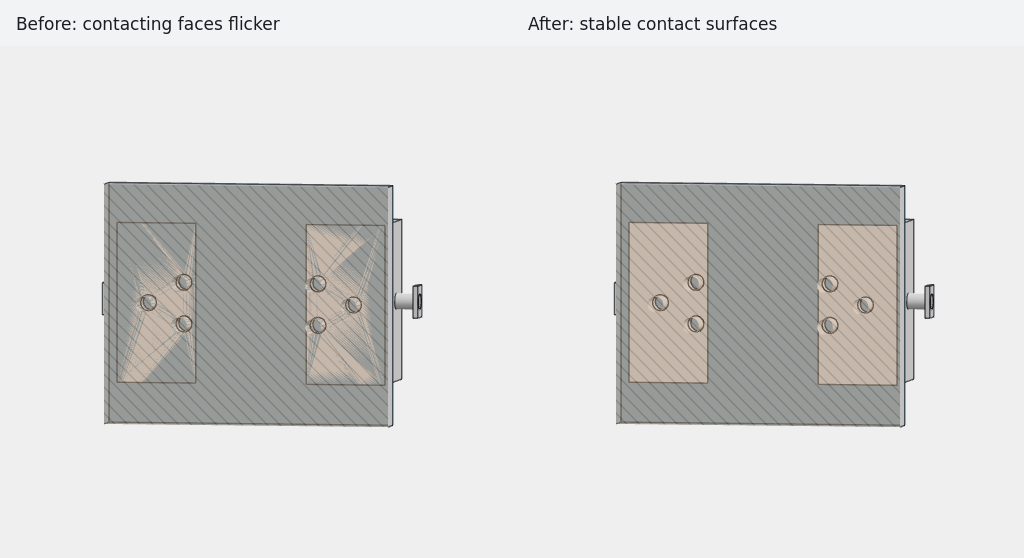
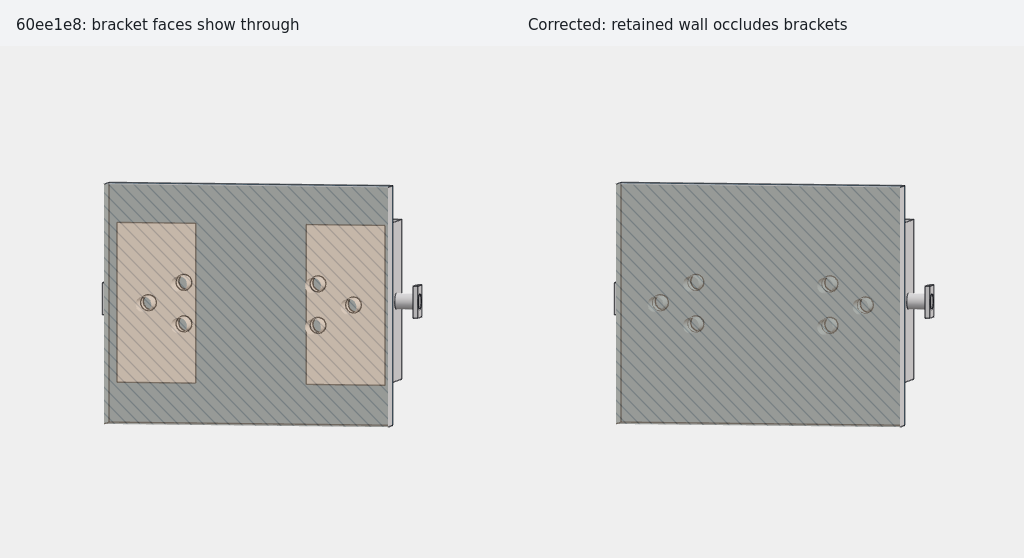
fix(renderer): occlude touching parts behind section walls
Retained section back walls must cover the entry faces of touching exterior parts. Reverse the previous contact priority and defer translucent-section back walls until after ordinary edges, using a per-wall stencil mask to restore only their own edge ink.

Correct the independent pixel reference and cover contacting outlines, retained face boundaries, true penetration, mirrored instances, draw order, projections, MSAA, and orbit angles. Replace the fixture comparison and document the OCCT contact check: both bracket intersections have zero volume and zero distance.

Validation: cmake --build --preset linux-debug -j 2; ctest --preset linux-debug; cmake --build --preset linux-release -j 2; ctest --preset linux-release (16 tests passed in each). Both section render executables passed with -platform xcb. Real as1-ug-214.stp captures passed all 48 contact samples at 0, 10, 35, and 60 degrees. git diff --check passed.

diff --git a/src/renderer_gl/src/GLRenderer.cpp b/src/renderer_gl/src/GLRenderer.cpp
@@ -20,6 +20,7 @@
 #include <cstdint>
 #include <iomanip>
 #include <memory>
+#include <optional>
 #include <sstream>
 #include <string>
 #include <unordered_map>
@@ -379,11 +380,15 @@ private:
   // triangle batch. Shared tail of every 2D overlay pass (scale bar, triad).
   void submit_overlay();
   void draw_edges(const renderer::DisplayMode& mode, bool hidden_pass = false,
-                  bool selection_only = false);
+                  bool selection_only = false,
+                  std::optional<std::size_t> node_only = std::nullopt,
+                  float view_bias = 0.0f);
   void draw_silhouettes(const renderer::DisplayMode& mode,
                         bool hidden_pass = false,
                         bool selection_only = false);
-  void draw_triangle_mesh(const renderer::DisplayMode& mode);
+  void draw_triangle_mesh(const renderer::DisplayMode& mode,
+                          std::optional<std::size_t> node_only = std::nullopt,
+                          float view_bias = 0.0f);
   // Shared tail of every exit path in render(): the section manipulator, the
   // rotation pivot, the axes triad, and the scale bar. None of these programs
   // writes a clip distance, so the section clip is switched off here — having
@@ -1308,7 +1313,9 @@ void GLRendererImpl::submit_overlay() {
   gl_.glDisable(GL_BLEND);
 }
 
-void GLRendererImpl::draw_triangle_mesh(const renderer::DisplayMode& mode) {
+void GLRendererImpl::draw_triangle_mesh(const renderer::DisplayMode& mode,
+                                       std::optional<std::size_t> node_only,
+                                       float view_bias) {
   // Debug overlay: re-draw the surface triangles in GL_LINE polygon mode
   // using the edges shader. Reuses the surface VAO + IBO, so the triangle
   // edges sit exactly on the same depth values as the filled surface —
@@ -1322,7 +1329,7 @@ void GLRendererImpl::draw_triangle_mesh(const renderer::DisplayMode& mode) {
   const GLint loc_model = prog_edges_.uniform(gl_, "u_model");
   const GLint loc_color = prog_edges_.uniform(gl_, "u_color");
   const GLint loc_bias  = prog_edges_.uniform(gl_, "u_view_bias");
-  gl_.glUniform1f(loc_bias, 0.0f);
+  gl_.glUniform1f(loc_bias, view_bias);
   // Cooler / lighter than the BRep edge ink so the two overlays are
   // distinguishable when both are on. Mid-alpha to soften the inevitable
   // double-draw where a triangle edge coincides with a BRep edge.
@@ -1344,7 +1351,10 @@ void GLRendererImpl::draw_triangle_mesh(const renderer::DisplayMode& mode) {
   // those that the front-facing surface already covers.
   gl_.glDisable(GL_CULL_FACE);
 
-  for (const auto& node : scene_->nodes) {
+  const std::size_t begin = node_only.value_or(0);
+  const std::size_t end = node_only ? begin + 1 : scene_->nodes.size();
+  for (std::size_t index = begin; index < end; ++index) {
+    const auto& node = scene_->nodes[index];
     if (!node.visible || !node.mesh_index) continue;
     // Isolate mode: the debug overlay follows the edge overlay's rule and
     // leaves ghosted parts as a clean veil.
@@ -1372,7 +1382,9 @@ void GLRendererImpl::draw_triangle_mesh(const renderer::DisplayMode& mode) {
 
 void GLRendererImpl::draw_edges(const renderer::DisplayMode& mode,
                                 bool hidden_pass,
-                                bool selection_only) {
+                                bool selection_only,
+                                std::optional<std::size_t> node_only,
+                                float view_bias) {
   // Three display modes feed this pass:
   //   - mode.show_edges : overlay BRep edges on the shaded surface using
   //                       the mesh-coupled strip (depth-matched, no
@@ -1406,13 +1418,13 @@ void GLRendererImpl::draw_edges(const renderer::DisplayMode& mode,
   const GLint loc_model = prog_edges_.uniform(gl_, "u_model");
   const GLint loc_color = prog_edges_.uniform(gl_, "u_color");
   const GLint loc_bias  = prog_edges_.uniform(gl_, "u_view_bias");
-  // No view-space bias — depth fighting between edges and faces is
+  // Normally no view-space bias — depth fighting between edges and faces is
   // resolved on the surface side via glPolygonOffset (see render()),
   // which gives proper hidden-line behaviour: edges belonging to a
   // visible face pass the depth test (the face was pushed slightly
   // farther), but edges on the BACK of the part are still occluded by
   // the front-facing surface's real-ish depth.
-  gl_.glUniform1f(loc_bias, 0.0f);
+  gl_.glUniform1f(loc_bias, view_bias);
 
   // Depth test ON so back-of-part edges stay hidden. Depth write OFF so
   // the edge overlay doesn't pollute the depth buffer for the pivot pass.
@@ -1500,7 +1512,10 @@ void GLRendererImpl::draw_edges(const renderer::DisplayMode& mode,
     return chosen;
   };
 
-  for (const auto& node : scene_->nodes) {
+  const std::size_t begin = node_only.value_or(0);
+  const std::size_t end = node_only ? begin + 1 : scene_->nodes.size();
+  for (std::size_t index = begin; index < end; ++index) {
+    const auto& node = scene_->nodes[index];
     if (!node.visible || !node.mesh_index) continue;
     if (selection_only && !node.selected) continue;
     // The "hide others" isolate style removes ghosted parts outright: no
@@ -1962,11 +1977,16 @@ void GLRendererImpl::render(const renderer::DisplayMode& mode) {
   const float highlight_wash =
     std::clamp(mode.selection_opacity, 0.0f, 1.0f);
 
+  const bool translucent_section = mode.section_translucent && !mode.hidden_line;
+  const bool defer_section_backs = translucent_section && line_overlay &&
+    section_.active() && section_.cap_available(gl_);
+
   // Shared per-node surface submission: transforms, per-submesh material,
   // cull mode, selection highlight. The opaque pass and the isolate ghost
   // pass below differ only in blend/depth state and the u_ghost value, so
   // the body is one lambda.
-  auto draw_node_surfaces = [&](const scene::Node& node, bool surface_offset) {
+  auto draw_node_surfaces = [&](const scene::Node& node, bool surface_offset,
+                                bool back_only = false) {
     if (!node.mesh_index || *node.mesh_index >= scene_->meshes.size()) return;
     const auto& mesh_ptr = scene_->meshes[*node.mesh_index];
     if (!mesh_ptr) return;
@@ -2013,21 +2033,20 @@ void GLRendererImpl::render(const renderer::DisplayMode& mode) {
                              static_cast<std::uintptr_t>(sub.index_offset) * sizeof(std::uint32_t)));
       };
 
-      // A section can expose a back wall exactly against another part's front
-      // face. Give that front face a stable win, independent of triangle or
-      // node order. Thin triangles can round the depth slope differently, so
-      // bias section back faces by a quarter pixel's slope plus depth units.
-      // Separate culling passes retain early depth testing in the PBR shader.
+      // The exit wall of retained material occludes a touching part's entry
+      // face. Include a slope bias for differently triangulated contact faces.
       if (cut_open) {
         gl_.glEnable(GL_CULL_FACE);
-        gl_.glCullFace(GL_FRONT);
-        gl_.glEnable(GL_POLYGON_OFFSET_FILL);
-        const float offset = surface_offset ? 1.0f : 0.0f;
-        gl_.glPolygonOffset(offset + 0.25f, offset + 4.0f);
-        draw_submesh();
+        if (!defer_section_backs || node.ghosted || back_only) {
+          gl_.glCullFace(GL_FRONT);
+          gl_.glEnable(GL_POLYGON_OFFSET_FILL);
+          const float offset = surface_offset ? 1.0f : 0.0f;
+          gl_.glPolygonOffset(offset - 0.25f, offset - 4.0f);
+          draw_submesh();
+          gl_.glPolygonOffset(1.0f, 1.0f);
+          if (!surface_offset) gl_.glDisable(GL_POLYGON_OFFSET_FILL);
+        }
         gl_.glCullFace(GL_BACK);
-        gl_.glPolygonOffset(1.0f, 1.0f);
-        if (!surface_offset) gl_.glDisable(GL_POLYGON_OFFSET_FILL);
       } else if (mesh_ptr->double_sided || m.double_sided) {
         // Open shells and intrinsically two-sided materials need both faces
         // even when the section plane does not cross them.
@@ -2036,7 +2055,7 @@ void GLRendererImpl::render(const renderer::DisplayMode& mode) {
         gl_.glEnable(GL_CULL_FACE);
       }
 
-      draw_submesh();
+      if (!back_only) draw_submesh();
     }
     gl_.glBindVertexArray(0);
     gl_.glFrontFace(GL_CCW);
@@ -2049,7 +2068,6 @@ void GLRendererImpl::render(const renderer::DisplayMode& mode) {
     draw_node_surfaces(node, line_overlay);
   }
 
-  const bool translucent_section = mode.section_translucent && !mode.hidden_line;
   auto draw_section_cap = [&]() {
     if (!section_.active() || !section_.cap_available(gl_)) return;
     section_.draw_cap(gl_, *scene_, mode, prog_edges_,
@@ -2083,6 +2101,40 @@ void GLRendererImpl::render(const renderer::DisplayMode& mode) {
   }
   draw_edges(mode);
   draw_silhouettes(mode);
+
+  if (defer_section_backs) {
+    // Retained walls cover both the faces and edge ink of contacting parts.
+    // Mark only the pixels a wall actually wins, then restore its own edges
+    // inside that mask. The cap has not run yet and will replace this stencil.
+    const auto& camera = scene_->camera;
+    const float edge_bias = 0.25f * 2.0f * std::max(camera.distance, 1e-6f) *
+      std::tan(0.5f * camera.fov_y) / std::max(static_cast<float>(viewport_h_), 1.0f);
+    for (std::size_t index = 0; index < scene_->nodes.size(); ++index) {
+      const auto& node = scene_->nodes[index];
+      if (!node.visible || node.ghosted || !node.mesh_index ||
+          !renderer::box_straddles_plane(node.world_bounds, section_.clip_plane())) continue;
+
+      gl_.glEnable(GL_STENCIL_TEST);
+      gl_.glStencilMask(0xFF);
+      gl_.glClearStencil(0);
+      gl_.glClear(GL_STENCIL_BUFFER_BIT);
+      gl_.glStencilFunc(GL_ALWAYS, 1, 0xFF);
+      gl_.glStencilOp(GL_KEEP, GL_KEEP, GL_REPLACE);
+      gl_.glUseProgram(prog_pbr_.id());
+      draw_node_surfaces(node, line_overlay, /*back_only=*/true);
+      gl_.glDisable(GL_POLYGON_OFFSET_FILL);
+
+      gl_.glStencilFunc(GL_EQUAL, 1, 0xFF);
+      gl_.glStencilOp(GL_KEEP, GL_KEEP, GL_KEEP);
+      draw_triangle_mesh(mode, index, edge_bias);
+      draw_edges(mode, /*hidden_pass=*/false, /*selection_only=*/false,
+                  index, edge_bias);
+    }
+    gl_.glStencilFunc(GL_ALWAYS, 0, 0xFF);
+    gl_.glStencilOp(GL_KEEP, GL_KEEP, GL_KEEP);
+    gl_.glStencilMask(0xFF);
+    gl_.glDisable(GL_STENCIL_TEST);
+  }
 
   // Isolate ghost pass: everything outside the focus as a translucent veil.
   // Runs AFTER the edge overlays so a ghost sitting in front of the focused

diff --git a/tests/section_render_test.cpp b/tests/section_render_test.cpp
@@ -338,14 +338,15 @@ void verify_touching_solids(r::IRenderer& renderer, QOpenGLFramebufferObject& ta
           scene.camera.orientation =
             glm::angleAxis(glm::radians(degrees), s::vec3(0, 1, 0)) *
             glm::angleAxis(glm::radians(degrees * 0.37f), s::vec3(1, 0, 0));
-          // The opened plate's back wall and the rear body's front face touch.
-          // The true front material must win consistently; a back-face tint
-          // must not bleed through it as the camera or draw order changes.
-          mode.backface_color = {0.85f, 0.22f, 0.18f};
-          const QImage red = draw();
-          mode.backface_color = {0.18f, 0.32f, 0.85f};
-          const QImage blue = draw();
-          const int delta = patch_distance(red, blue,
+          // Adding a body touching the outside of the retained plate must not
+          // change the wall seen from inside, including the contacting edges.
+          auto rear = std::find_if(scene.nodes.begin(), scene.nodes.end(),
+            [](const s::Node& node) { return node.mesh_index == 1u; });
+          rear->visible = false;
+          const QImage wall = draw();
+          rear->visible = true;
+          const QImage touching = draw();
+          const int delta = patch_distance(wall, touching,
                                             project(scene.camera, scene.world_bounds.center()));
           if (delta > 1) {
             std::fprintf(stderr, "Touching solids: MSAA %d, projection %d, edges %d, "
@@ -353,7 +354,34 @@ void verify_touching_solids(r::IRenderer& renderer, QOpenGLFramebufferObject& ta
                           samples, static_cast<int>(projection), show_edges,
                           scale, order, degrees, delta);
           }
-          check(delta <= 1, "coplanar front faces must occlude section back walls while orbiting");
+          check(delta <= 1, "retained walls must occlude contacting bodies while orbiting");
+          check_patch_equal(wall, touching,
+            project(scene.camera, scene.world_bounds.center() + s::vec3(-1.5f, 0.0f, 0.0f)),
+            "contacting edges must not show through a retained wall");
+
+          if (show_edges) {
+            mode.show_edges = false;
+            const QImage no_edges = draw();
+            mode.show_edges = true;
+            check(patch_distance(no_edges, touching,
+                    project(scene.camera, scene.world_bounds.center() +
+                      s::vec3(0.0f, 0.6f, 0.0f))) > 10,
+                  "a retained wall must keep its own face-boundary edges");
+          }
+
+          // A true intrusion is nearer than the exit wall and must remain
+          // visible. The contact tie-break must not act like an x-ray mask.
+          rear->local.translation.z = 0.05f;
+          scene.update_transforms();
+          place_section(mode, scene, 0.0f);
+          const QImage penetrating = draw();
+          check(patch_distance(wall, penetrating,
+                  project(scene.camera, scene.camera.target +
+                    s::vec3(0.0f, 0.0f, -0.45f))) > 10,
+                "geometry protruding into retained material must remain visible");
+          rear->local.translation.z = 0.0f;
+          scene.update_transforms();
+          place_section(mode, scene, 0.0f);
         }
         std::swap(scene.nodes[0], scene.nodes[1]);
       }
@@ -758,6 +786,12 @@ int main(int argc, char** argv) {
   touching->materials.resize(1);
   add_box(*touching, {-2.5f, -2.0f, -0.5f}, {2.5f, 2.0f, 0.5f}, 0);
   add_box(*touching, {-1.5f, -1.2f, -1.5f}, {1.5f, 1.2f, -0.5f}, 0);
+  // A face-boundary seam on the plate's exit wall must survive the contact
+  // occlusion pass, even though the other body's coincident edges are hidden.
+  auto& plate = *touching->meshes[0];
+  plate.vertices.push_back({{-0.75f, 0.6f, -0.5f}, {0.0f, 0.0f, -1.0f}});
+  plate.vertices.push_back({{0.75f, 0.6f, -0.5f}, {0.0f, 0.0f, -1.0f}});
+  plate.edge_strip_indices = {24, 25, 0xFFFFFFFFu};
   // A different, thin triangulation on the contacting front face exercises
   // raster depth-slope rounding, as seen around bolt holes in CAD meshes.
   auto& rear = *touching->meshes[1];
@@ -773,6 +807,7 @@ int main(int argc, char** argv) {
     for (std::uint32_t i : {0u, 1u, 2u, 0u, 2u, 3u}) rear.indices.push_back(first + i);
   }
   rear.submeshes[0].index_count = static_cast<std::uint32_t>(rear.indices.size());
+  rear.edge_strip_indices = {20, 21, 22, 23, 20, 0xFFFFFFFFu};
   for (auto& node : touching->nodes) node.local.translation = {100.0f, 75.0f, 0.0f};
   touching->update_transforms();
   touching->camera.target = {100.0f, 75.0f, 0.0f};
